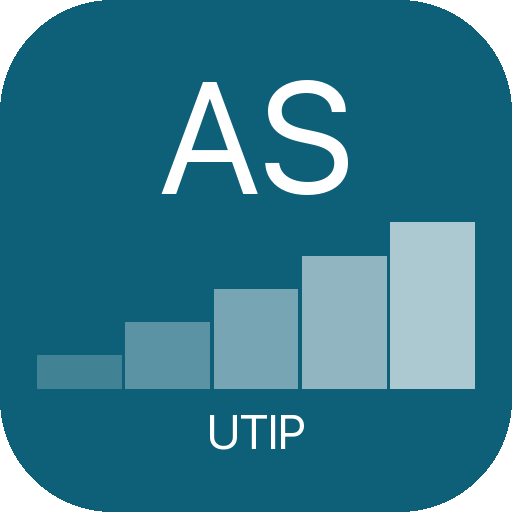
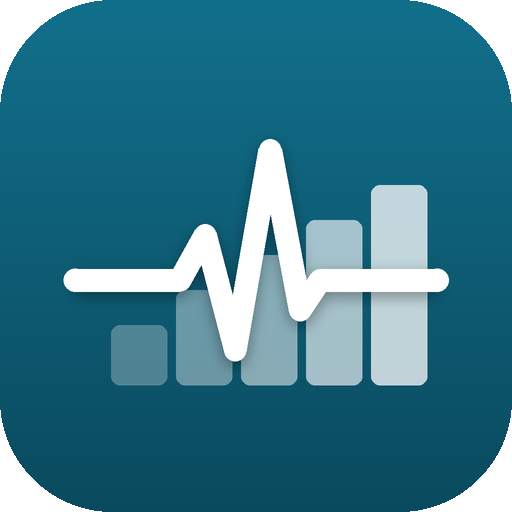
Preparação para as lojas: termo de uso, tela Sobre, privacidade e termos, ícone novo, ponte nativa; corrige títulos da busca e quebra de linha do preparo de NaCl 3%

Changed region(s): [[0.0625, 0.1562, 0.9375, 0.7812], [0.0938, 0.9375, 0.9062, 1.0], [0.4062, 0.8125, 0.5938, 0.875]]

diff --git a/index.html b/index.html
@@ -308,6 +308,7 @@ td.c{text-align:center}
   #d-mid{animation:drugIn .4s ease .25s both}
 }
 .dil{font-size:.88rem;background:var(--surface2);border-radius:9px;padding:7px 10px;margin-top:8px}
+#elNaRec,#elHipoRec{white-space:pre-line}
 
 details{border-top:1px solid var(--line);margin-top:10px}
 details>summary{cursor:pointer;list-style:none;padding:11px 0 9px;font-weight:650;font-size:.93rem;color:var(--brand);display:flex;align-items:center;gap:8px;min-height:44px}
@@ -525,6 +526,22 @@ details .dx{font-size:.92rem;padding-bottom:8px}
   .sc-opt:has(input:checked) .pt{background:none;color:inherit;border-color:#999}
   .seg label:has(input:checked){background:none;color:inherit;font-weight:normal}
 }
+/* ---- app nativo, termo de uso e Sobre ---- */
+html.nativo .so-web{display:none!important}
+.termos{position:fixed;inset:0;z-index:80;background:rgba(8,20,28,.6);display:flex;align-items:flex-end;justify-content:center;padding:12px;padding-top:calc(12px + env(safe-area-inset-top))}
+@media (min-width:640px){.termos{align-items:center}}
+.termos .caixa{background:var(--surface);color:var(--ink);border-radius:18px;max-width:560px;width:100%;max-height:100%;overflow:auto;padding:20px 18px calc(18px + env(safe-area-inset-bottom));box-shadow:0 10px 40px rgba(0,0,0,.35)}
+.termos h2{margin:0 0 6px;font-size:1.25rem}
+.termos ul{padding-left:20px;margin:8px 0}
+.termos li{margin:6px 0}
+.termos label.aceite{display:flex;gap:10px;align-items:flex-start;margin:14px 0;font-weight:650;cursor:pointer}
+.termos label.aceite input{width:22px;height:22px;flex:none;margin-top:1px}
+.termos .acoes{display:flex;gap:8px;flex-wrap:wrap;align-items:center}
+.termos .btn[disabled]{opacity:.45;cursor:not-allowed}
+.sobre-meta{display:grid;grid-template-columns:auto 1fr;gap:4px 12px;font-size:.92rem}
+.sobre-meta dt{color:var(--muted);font-weight:600}
+.sobre-meta dd{margin:0}
+@media print{.termos{display:none!important}}
 </style>
 </head>
 <body>
@@ -566,7 +583,8 @@ details .dx{font-size:.92rem;padding-bottom:8px}
   <a href="#fundamentos">Fundamentos</a>
   <a href="#certeza">Grau de certeza</a>
   <a href="#refs">Referências</a>
-  <a href="#instalar">Instalar e compartilhar</a>
+  <a href="#sobre">Sobre e termos de uso</a>
+  <a href="#instalar" class="so-web">Instalar e compartilhar</a>
 </nav>
 
 <main>
@@ -574,7 +592,7 @@ details .dx{font-size:.92rem;padding-bottom:8px}
 <!-- ================= INÍCIO ================= -->
 <section class="sec" id="inicio">
   <div class="hero">
-    <p><b>Como usar.</b> A parte de cima de cada seção é o que se faz à beira-leito. O “porquê” (farmacologia, fisiopatologia e evidência) fica recolhido em <b>Por quê</b> — abra quando precisar. Para usar sem internet, <a href="#instalar">instale no celular ou no computador</a>.</p>
+    <p><b>Como usar.</b> A parte de cima de cada seção é o que se faz à beira-leito. O “porquê” (farmacologia, fisiopatologia e evidência) fica recolhido em <b>Por quê</b> — abra quando precisar.<span class="so-web"> Para usar sem internet, <a href="#instalar">instale no celular ou no computador</a>.</span></p>
     <div class="legend-prop" style="margin-top:6px"><span class="tag t-prop">proposta</span><span class="muted">= acréscimo desta edição, além do texto-base; confira antes de adotar na sua rotina.</span></div>
   </div>
 
@@ -1587,8 +1605,32 @@ details .dx{font-size:.92rem;padding-bottom:8px}
   </div>
 </section>
 
-<section class="sec" id="instalar">
-  <div class="sec-head"><span class="n">15</span><h2>Instalar e compartilhar</h2></div>
+<section class="sec" id="sobre">
+  <div class="sec-head"><span class="n">15</span><h2>Sobre e termos de uso</h2></div>
+  <p class="sec-lead">O que o PedCrit é, de onde vem o conteúdo e o que ele não faz.</p>
+  <div class="call c-danger"><b>Ferramenta de apoio, não de decisão</b>Uso exclusivo por profissionais de saúde habilitados. O PedCrit não substitui o julgamento clínico, a prescrição médica, a dupla checagem de enfermagem e farmácia nem o protocolo da sua instituição. Confira toda dose antes de administrar.</div>
+  <div class="card">
+    <h3>O que é</h3>
+    <p>Consulta rápida para quem atende crianças em UTI pediátrica, emergência e pronto-socorro: escalas de dor, sedação, abstinência e delirium; condutas de analgesia e sedação; calculadora de doses por peso; correção de sódio e potássio.</p>
+    <h3>Como o conteúdo é construído</h3>
+    <ul>
+      <li>Cada dose, teto e conduta traz a fonte numerada, que abre em <a href="#refs">Referências</a>: diretrizes (PANDEM/SCCM 2022, ESPNIC, PALICC-2), bulas e estudos primários.</li>
+      <li>A força de cada recomendação está em <a href="#certeza">Grau de certeza</a>.</li>
+      <li>A etiqueta <span class="tag t-prop">proposta</span> marca o que vai além do texto-base e merece conferência antes de virar rotina.</li>
+      <li>As calculadoras fazem conta, não escolha: a indicação, a dose final e a via são decisão de quem prescreve.</li>
+    </ul>
+    <h3>Privacidade</h3>
+    <p>O PedCrit não pede cadastro, não coleta, não envia e não guarda dados de pacientes. Peso, escores e valores digitados ficam só na tela e somem ao fechar. O único registro salvo no aparelho é o aceite destes termos. Detalhes na <a href="privacidade.html">política de privacidade</a> e nos <a href="termos.html">termos de uso completos</a>.</p>
+    <dl class="sobre-meta">
+      <dt>Versão</dt><dd id="sobreVersao">—</dd>
+      <dt>Contato</dt><dd><a href="https://github.com/rvped/pedcrit/issues" rel="noopener">relatar erro ou sugerir melhoria</a></dd>
+    </dl>
+    <p style="margin-top:12px"><button type="button" class="btn" id="termosRever">Rever termo de uso</button></p>
+  </div>
+</section>
+
+<section class="sec so-web" id="instalar">
+  <div class="sec-head"><span class="n">16</span><h2>Instalar e compartilhar</h2></div>
   <div class="card">
     <div class="qrbox">
       <img src="qr.svg" alt="QR code do endereço do protocolo" width="200" height="200">
@@ -1637,11 +1679,17 @@ details .dx{font-size:.92rem;padding-bottom:8px}
     <a href="#fundamentos" data-close>Fundamentos</a>
     <a href="#certeza" data-close>Grau de certeza</a>
     <a href="#refs" data-close>Referências</a>
-    <a href="#instalar" data-close>Instalar e compartilhar</a>
+    <a href="#sobre" data-close>Sobre e termos de uso</a>
+    <a href="#instalar" data-close class="so-web">Instalar e compartilhar</a>
   </div>
 </div>
 
 <script>
+/* Versão do conteúdo: DEVE ser igual a VERSAO em sw.js (há teste que confere). */
+var APP_VERSAO = "2026-09-18a";
+/* Dentro do app das lojas (Capacitor) há ponte nativa; na web, não. */
+var NATIVO = !!(window.Capacitor && window.Capacitor.isNativePlatform && window.Capacitor.isNativePlatform());
+function PLUG(nome){ return NATIVO && window.Capacitor.Plugins ? window.Capacitor.Plugins[nome] || null : null; }
 (function(){
   "use strict";
   var $ = function(id){ return document.getElementById(id); };
@@ -3259,6 +3307,18 @@ details .dx{font-size:.92rem;padding-bottom:8px}
     });
 
     var SEL_BLOCO = "h3,h4,summary,p,li,td,.dbox,.call,.dil";
+    /* Título do resultado = o h3/h4/legend mais próximo ANTES do trecho, dentro do
+       mesmo bloco. Pegar só o primeiro título do bloco rotulava errado os cartões
+       com vários subtítulos e as regras de "Em 30 segundos". */
+    function tituloDe(el, dono){
+      if (/^(H3|H4)$/.test(el.tagName)) return el;
+      var cands = dono.querySelectorAll("h3, h4, legend"), achado = null;
+      for (var i = 0; i < cands.length; i++){
+        if (cands[i].compareDocumentPosition(el) & Node.DOCUMENT_POSITION_FOLLOWING) achado = cands[i];
+        else if (!cands[i].contains(el)) break;
+      }
+      return achado || cands[0] || null;
+    }
     /* Fora: navegação (o texto dela duplica títulos), o cabeçalho da seção (já é
        entrada de navegação) e a própria barra de busca. */
     var SEL_FORA = ".atalhos,.searchbar,.drugnav,.bottomnav,.side,.drawer,.sec-head,.sec-lead";
@@ -3273,8 +3333,8 @@ details .dx{font-size:.92rem;padding-bottom:8px}
         if (el.tagName === "H3" && el.closest("article.drug")) return;
         var texto = (el.textContent || "").replace(/\s+/g, " ").trim();
         if (texto.length < 4) return;
-        var dono = el.closest("article.drug, .sc-item, .card") || s;
-        var tit = dono.querySelector("h3, legend");
+        var dono = el.closest("article.drug, .sc-item, .rule, .card") || s;
+        var tit = tituloDe(el, dono);
         addBloco(nomeSec, tit ? tit.textContent.trim() : nomeSec, texto,
                  "#" + s.id, PESO_TAG[el.tagName] || 2, el);
       });
@@ -3368,7 +3428,8 @@ details .dx{font-size:.92rem;padding-bottom:8px}
         a.appendChild(c); a.appendChild(nm);
         if (it.sub) { var s = document.createElement("span"); s.className = "sub"; s.textContent = it.sub; a.appendChild(s); }
         var tr = it.texto ? trecho(it.texto, ts) : null;
-        if (tr && tr.hit !== it.titulo) {
+        /* sem trecho quando o bloco achado É o próprio título (evita a linha repetida) */
+        if (tr && tr.hit !== it.titulo && it.texto !== it.titulo) {
           var dv = document.createElement("span"); dv.className = "trecho";
           var b = document.createElement("b"); b.textContent = tr.hit;
           dv.appendChild(document.createTextNode(tr.antes));
@@ -4054,7 +4115,7 @@ details .dx{font-size:.92rem;padding-bottom:8px}
       linhas.push("Déficit até o alvo: " + CALC.fmtBR(r.deficitMEq) + " mEq de sódio");
       $("elHipoRx").textContent = linhas.join("\n");
       lista($("elHipoAl"), r.alertas);
-      var rec = CALC.ELETROLITOS.hipoNa.receitas.map(function(x){ return "• " + x.rotulo + " — " + x.nota; }).join("\n");
+      var rec = CALC.ELETROLITOS.hipoNa.receitas.map(function(x){ return "• " + x.rotulo + " " + x.nota; }).join("\n");
       $("elHipoRec").textContent = "Como obter NaCl 3% com o estoque básico:\n" + rec;
       $("elHipoRec").hidden = false;
     }
@@ -4229,6 +4290,92 @@ details .dx{font-size:.92rem;padding-bottom:8px}
     if (todosBtn) { filtrar(null); marcar(todosBtn); }
   })();
 
+  /* ---------- versão, termo de uso e ponte nativa ---------- */
+  var elVer = $("sobreVersao"); if (elVer) elVer.textContent = APP_VERSAO + (NATIVO ? " · app " + (window.Capacitor.getPlatform ? window.Capacitor.getPlatform() : "") : " · web");
+
+  /* Termo de uso: exigência das lojas para app médico (Apple 1.4.1) e proteção
+     de quem usa. Criado por JavaScript: se o script falhar, o conteúdo continua
+     acessível (a regra de ouro do projeto). O aceite é o ÚNICO dado guardado. */
+  var TERMOS_VERSAO = "1";
+  var CHAVE_TERMOS = "pedcrit.termos";
+  function lerAceite(cb){
+    var v = null; try { v = localStorage.getItem(CHAVE_TERMOS); } catch(e){}
+    if (v === TERMOS_VERSAO || !PLUG("Preferences")) return cb(v);
+    /* no app, o localStorage do WebView pode ser limpo pelo sistema; Preferences não */
+    PLUG("Preferences").get({ key: CHAVE_TERMOS }).then(function(r){ cb(r && r.value); }, function(){ cb(v); });
+  }
+  function gravarAceite(){
+    try { localStorage.setItem(CHAVE_TERMOS, TERMOS_VERSAO); } catch(e){}
+    if (PLUG("Preferences")) PLUG("Preferences").set({ key: CHAVE_TERMOS, value: TERMOS_VERSAO }).catch(function(){});
+  }
+  function abrirTermos(obrigatorio){
+    if (document.querySelector(".termos")) return;
+    var foco = document.activeElement;
+    var t = document.createElement("div");
+    t.className = "termos"; t.setAttribute("role", "dialog"); t.setAttribute("aria-modal", "true"); t.setAttribute("aria-labelledby", "termosTit");
+    t.innerHTML = '<div class="caixa">' +
+      '<h2 id="termosTit">Antes de usar o PedCrit</h2>' +
+      '<p class="small muted" style="margin:0 0 6px">Termo de uso · versão ' + TERMOS_VERSAO + '</p>' +
+      '<ul>' +
+      '<li>É uma ferramenta de <b>apoio</b> para <b>profissionais de saúde</b>. Não substitui o julgamento clínico, a prescrição nem o protocolo da sua instituição.</li>' +
+      '<li><b>Confira toda dose</b> antes de administrar. As calculadoras fazem conta; a decisão é de quem prescreve.</li>' +
+      '<li>O conteúdo segue diretrizes e estudos citados em Referências, que podem mudar. Na dúvida, prevalece a fonte e o protocolo local.</li>' +
+      '<li>Nenhum dado de paciente é coletado ou enviado.</li>' +
+      '</ul>' +
+      '<p class="small"><a href="termos.html">Termos completos</a> · <a href="privacidade.html">Privacidade</a></p>' +
+      (obrigatorio ? '<label class="aceite"><input type="checkbox" id="termosOk"> Sou profissional de saúde e li o termo de uso.</label>' : '') +
+      '<div class="acoes"><button type="button" class="btn fill" id="termosBtn"' + (obrigatorio ? ' disabled' : '') + '>' + (obrigatorio ? 'Aceitar e continuar' : 'Fechar') + '</button></div>' +
+      '</div>';
+    document.body.appendChild(t);
+    var btn = t.querySelector("#termosBtn"), ok = t.querySelector("#termosOk");
+    if (ok) ok.addEventListener("change", function(){ btn.disabled = !ok.checked; });
+    btn.addEventListener("click", function(){
+      if (obrigatorio) gravarAceite();
+      t.remove(); if (foco && foco.focus) foco.focus();
+    });
+    t.addEventListener("keydown", function(e){
+      if (e.key === "Escape" && !obrigatorio) { btn.click(); return; }
+      if (e.key !== "Tab") return;
+      /* prende o foco dentro do termo */
+      var f = [].slice.call(t.querySelectorAll("a, input, button:not([disabled])"));
+      if (!f.length) return;
+      if (e.shiftKey && document.activeElement === f[0]) { e.preventDefault(); f[f.length - 1].focus(); }
+      else if (!e.shiftKey && document.activeElement === f[f.length - 1]) { e.preventDefault(); f[0].focus(); }
+    });
+    (ok || btn).focus();
+  }
+  lerAceite(function(v){ if (v !== TERMOS_VERSAO) abrirTermos(true); });
+  var rever = $("termosRever"); if (rever) rever.addEventListener("click", function(){ abrirTermos(false); });
+
+  if (NATIVO) {
+    document.documentElement.classList.add("nativo");
+    /* toque sutil ao marcar item de escala, opção ou checklist */
+    if (PLUG("Haptics")) document.addEventListener("change", function(e){
+      var el = e.target;
+      if (el && (el.type === "radio" || el.type === "checkbox")) PLUG("Haptics").selectionChanged().catch(function(){});
+    });
+    /* barra de status acompanhando o tema claro/escuro */
+    var SB = PLUG("StatusBar");
+    function barra(){
+      if (!SB) return;
+      var escuro = window.matchMedia && matchMedia("(prefers-color-scheme: dark)").matches;
+      SB.setStyle({ style: "DARK" }).catch(function(){}); /* texto claro sobre o azul do topo */
+      if (window.Capacitor.getPlatform() === "android") SB.setBackgroundColor({ color: escuro ? "#0b3b4a" : "#0e5f78" }).catch(function(){});
+    }
+    barra();
+    if (window.matchMedia) { var mq = matchMedia("(prefers-color-scheme: dark)"); if (mq.addEventListener) mq.addEventListener("change", barra); }
+    /* botão voltar do Android: fecha o que estiver aberto, volta de tela, e só sai do app na tela inicial */
+    var APP = PLUG("App");
+    if (APP) APP.addListener("backButton", function(){
+      var termo = document.querySelector(".termos");
+      if (termo) { if (!termo.querySelector("#termosOk")) termo.remove(); return; }
+      if (drawer.classList.contains("open")) { drawer.classList.remove("open"); drawer.setAttribute("aria-hidden","true"); return; }
+      var busca = $("searchBar"); if (busca && !busca.hidden) { $("searchClose").click(); return; }
+      if (telaAtual && telaAtual !== "inicio") { if (history.length > 1) history.back(); else location.hash = "#inicio"; return; }
+      APP.exitApp();
+    });
+  }
+
   /* ---------- compartilhar / instalar ---------- */
   var URL_FIXA = "https://rvped.github.io/pedcrit/";
   var toastEl = document.createElement("div"); toastEl.className = "toast"; toastEl.setAttribute("role", "status"); document.body.appendChild(toastEl);
@@ -4238,6 +4385,7 @@ details .dx{font-size:.92rem;padding-bottom:8px}
     else toast(URL_FIXA);
   });
   $("shareBtn").addEventListener("click", function(){
+    if (PLUG("Share")) { PLUG("Share").share({ title: "PedCrit", text: "PedCrit · UTI pediátrica e emergência", url: URL_FIXA, dialogTitle: "Compartilhar o PedCrit" }).catch(function(){}); return; }
     if (navigator.share) navigator.share({title:"PedCrit", url:URL_FIXA}).catch(function(){});
     else location.hash = "#instalar";
   });
@@ -4250,7 +4398,7 @@ details .dx{font-size:.92rem;padding-bottom:8px}
   });
 
   /* ---------- offline e aviso de versão nova ---------- */
-  if ("serviceWorker" in navigator && location.protocol === "https:") {
+  if ("serviceWorker" in navigator && location.protocol === "https:" && !NATIVO) {
     navigator.serviceWorker.register("sw.js").then(function(reg){
       function avisar(w){ $("updBar").hidden = false; $("updBtn").onclick = function(){ w.postMessage("atualizar"); }; }
       if (reg.waiting && navigator.serviceWorker.controller) avisar(reg.waiting);

diff --git a/termos.html b/termos.html
@@ -1,0 +1,61 @@
+<!doctype html>
+<html lang="pt-BR">
+<head>
+<meta charset="utf-8">
+<meta name="viewport" content="width=device-width, initial-scale=1, viewport-fit=cover">
+<title>Termos de uso · PedCrit</title>
+<meta name="theme-color" content="#0e5f78">
+<link rel="icon" href="icons/favicon-48.png">
+<style>
+:root{--bg:#f5f7fa;--surface:#fff;--ink:#14212b;--muted:#5b6b78;--brand:#0e5f78;--line:#dde3e8}
+@media (prefers-color-scheme:dark){:root{--bg:#0b1620;--surface:#122230;--ink:#e6edf2;--muted:#9fb0bd;--brand:#5fb3cc;--line:#23374a}}
+*{box-sizing:border-box}
+body{margin:0;background:var(--bg);color:var(--ink);font:16px/1.6 system-ui,-apple-system,"Segoe UI",Roboto,sans-serif}
+header{background:#0e5f78;color:#fff;padding:14px 16px;padding-top:calc(14px + env(safe-area-inset-top))}
+header a{color:#fff;text-decoration:none;font-weight:700}
+main{max-width:760px;margin:0 auto;padding:20px 16px calc(40px + env(safe-area-inset-bottom))}
+h1{font-size:1.5rem;margin:0 0 4px} h2{font-size:1.1rem;margin:26px 0 6px}
+.muted{color:var(--muted);font-size:.9rem}
+a{color:var(--brand)}
+.card{background:var(--surface);border:1px solid var(--line);border-radius:14px;padding:4px 18px 14px}
+</style>
+</head>
+<body>
+<header><a href="./">← PedCrit</a></header>
+<main><div class="card">
+<h1>Termos de uso</h1>
+<p class="muted">Versão 1 · vigente desde 18 de setembro de 2026</p>
+
+<h2>1. Para quem é</h2>
+<p>O PedCrit é uma ferramenta de consulta e apoio para <b>profissionais de saúde habilitados</b> que atendem crianças em terapia intensiva, emergência e pronto-socorro. Ao usar o app, você declara ser um desses profissionais, ou estudante sob supervisão de um deles.</p>
+
+<h2>2. O que ele não é</h2>
+<p>O PedCrit não diagnostica, não prescreve e não substitui o julgamento clínico, a avaliação do paciente, a prescrição médica, a dupla checagem de enfermagem e farmácia nem os protocolos da sua instituição. As calculadoras fazem conta a partir do que você digita; a indicação, a escolha do fármaco, a dose final, a diluição e a via são decisão exclusiva de quem prescreve e administra.</p>
+
+<h2>3. Conferência obrigatória</h2>
+<p>Confira toda dose, diluição e velocidade de infusão com a bula, a farmácia clínica e o protocolo local antes de administrar. Erro de digitação do peso ou da concentração produz resultado errado com aparência de certo.</p>
+
+<h2>4. Origem e limites do conteúdo</h2>
+<p>O conteúdo resume diretrizes, bulas e estudos citados em Referências, com o grau de certeza indicado. A literatura muda, e pode haver defasagem entre uma publicação nova e a atualização do app. O que vier marcado como <i>proposta</i> vai além do texto-base e exige conferência antes de virar rotina. Havendo divergência, prevalecem a fonte original e o protocolo da sua instituição.</p>
+
+<h2>5. Responsabilidade</h2>
+<p>O PedCrit é oferecido como está, sem garantia de que esteja livre de erro ou de que sirva a um caso específico. Na máxima extensão permitida pela lei, o responsável pelo PedCrit não responde por decisão clínica tomada com base nele. A responsabilidade pelo atendimento é do profissional e da instituição onde ele ocorre.</p>
+
+<h2>6. Escalas e instrumentos de terceiros</h2>
+<p>As escalas de avaliação pertencem a seus autores e titulares, citados junto a cada uma. Sua reprodução no app não transfere direito algum sobre elas.</p>
+
+<h2>7. Privacidade</h2>
+<p>O app não coleta dados pessoais nem de pacientes. Veja a <a href="privacidade.html">política de privacidade</a>.</p>
+
+<h2>8. Relato de erro</h2>
+<p>Encontrou dose, conta ou texto errado? Relate pelo canal abaixo. Erros de segurança do paciente têm prioridade de correção.</p>
+
+<h2>9. Mudanças e lei aplicável</h2>
+<p>Estes termos podem mudar; mudança relevante gera nova versão e novo pedido de aceite no app. Aplica-se a lei brasileira.</p>
+
+<h2>Contato</h2>
+<p><a href="https://github.com/rvped/pedcrit/issues" rel="noopener">github.com/rvped/pedcrit/issues</a></p>
+
+</div></main>
+</body>
+</html>

diff --git a/privacidade.html b/privacidade.html
@@ -1,0 +1,58 @@
+<!doctype html>
+<html lang="pt-BR">
+<head>
+<meta charset="utf-8">
+<meta name="viewport" content="width=device-width, initial-scale=1, viewport-fit=cover">
+<title>Política de privacidade · PedCrit</title>
+<meta name="theme-color" content="#0e5f78">
+<link rel="icon" href="icons/favicon-48.png">
+<style>
+:root{--bg:#f5f7fa;--surface:#fff;--ink:#14212b;--muted:#5b6b78;--brand:#0e5f78;--line:#dde3e8}
+@media (prefers-color-scheme:dark){:root{--bg:#0b1620;--surface:#122230;--ink:#e6edf2;--muted:#9fb0bd;--brand:#5fb3cc;--line:#23374a}}
+*{box-sizing:border-box}
+body{margin:0;background:var(--bg);color:var(--ink);font:16px/1.6 system-ui,-apple-system,"Segoe UI",Roboto,sans-serif}
+header{background:#0e5f78;color:#fff;padding:14px 16px;padding-top:calc(14px + env(safe-area-inset-top))}
+header a{color:#fff;text-decoration:none;font-weight:700}
+main{max-width:760px;margin:0 auto;padding:20px 16px calc(40px + env(safe-area-inset-bottom))}
+h1{font-size:1.5rem;margin:0 0 4px} h2{font-size:1.1rem;margin:26px 0 6px}
+.muted{color:var(--muted);font-size:.9rem}
+a{color:var(--brand)}
+.card{background:var(--surface);border:1px solid var(--line);border-radius:14px;padding:4px 18px 14px}
+</style>
+</head>
+<body>
+<header><a href="./">← PedCrit</a></header>
+<main><div class="card">
+<h1>Política de privacidade</h1>
+<p class="muted">Vigente desde 18 de setembro de 2026 · aplica-se ao app PedCrit (iOS e Android) e ao site rvped.github.io/pedcrit</p>
+
+<h2>Resumo</h2>
+<p>O PedCrit não coleta, não transmite, não vende e não compartilha dados pessoais nem dados de pacientes. Não há cadastro, login, anúncio, rastreamento ou ferramenta de análise de uso.</p>
+
+<h2>O que você digita</h2>
+<p>Peso, idade, escores, valores de exames e marcações de escala são processados só no próprio aparelho, para fazer a conta na tela. Nada disso é enviado a servidor algum nem fica gravado: ao fechar o app ou recarregar a página, os campos voltam ao padrão. Não digite nome, prontuário ou qualquer dado que identifique o paciente: o app não precisa disso.</p>
+
+<h2>O que fica guardado no aparelho</h2>
+<p>Um único registro local indica que você aceitou o termo de uso, para não pedir o aceite a cada abertura. Ele não identifica você e pode ser apagado a qualquer momento: basta remover o app ou limpar os dados do site no navegador.</p>
+
+<h2>Conexão com a internet</h2>
+<p>O app funciona sem internet: todo o conteúdo vem dentro dele. A internet só é usada quando você toca num link externo (por exemplo, o resumo de um artigo no PubMed), que abre no navegador do aparelho e passa a seguir a política daquele site. Na versão web, o endereço rvped.github.io é hospedado pelo GitHub Pages, que pode registrar dados técnicos de acesso (como endereço IP) conforme a política do GitHub; o PedCrit não recebe nem usa esses registros.</p>
+
+<h2>Terceiros</h2>
+<p>Não há bibliotecas de terceiros de publicidade, análise ou coleta de dados. Os componentes nativos usados (Capacitor: compartilhar, vibração sutil ao toque, barra de status e armazenamento do aceite) funcionam só no aparelho.</p>
+
+<h2>Crianças</h2>
+<p>O app é destinado a profissionais de saúde adultos e não se dirige a crianças como usuárias. O conteúdo trata do cuidado de pacientes pediátricos, sem coletar dado algum deles.</p>
+
+<h2>Seus direitos (LGPD)</h2>
+<p>Como nenhum dado pessoal é tratado, não há dado a acessar, corrigir, portar ou excluir. Mesmo assim, você pode falar com o responsável pelo PedCrit para qualquer dúvida sobre privacidade pelo canal de contato abaixo.</p>
+
+<h2>Mudanças nesta política</h2>
+<p>Se o PedCrit passar a tratar qualquer dado, esta política será atualizada antes, com nova data de vigência, e o app pedirá novo aceite.</p>
+
+<h2>Contato</h2>
+<p><a href="https://github.com/rvped/pedcrit/issues" rel="noopener">github.com/rvped/pedcrit/issues</a></p>
+
+</div></main>
+</body>
+</html>

diff --git a/sw.js b/sw.js
@@ -1,11 +1,13 @@
 /* Service worker — funciona sem internet e avisa quando há versão nova.
    Troque VERSAO a cada publicação para invalidar o cache. */
-const VERSAO = "2026-09-17f";
+const VERSAO = "2026-09-18a";
 const CACHE = "pedcrit-" + VERSAO;
 const ARQUIVOS = [
   "./",
   "./index.html",
   "./manifest.webmanifest",
+  "./privacidade.html",
+  "./termos.html",
   "./qr.svg",
   "./icons/icon-192.png",
   "./icons/icon-512.png",
